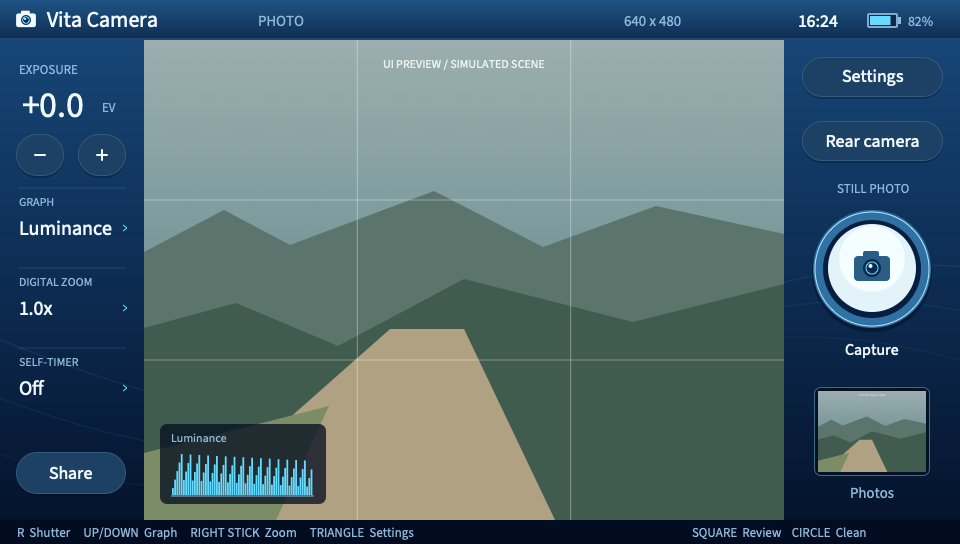
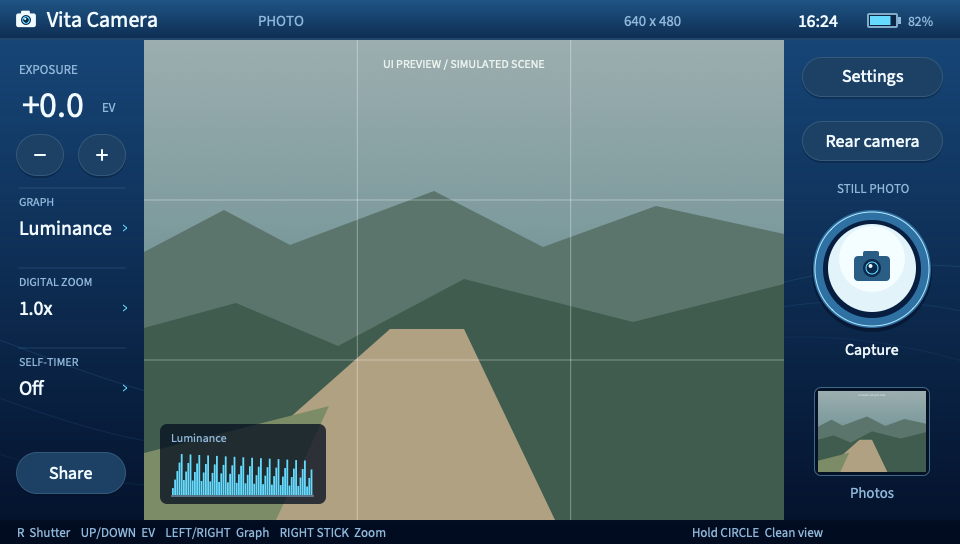
Remap camera controls and hold to hide the UI

Changed region(s): [[0.0625, 0.9688, 0.4375, 1.0], [0.7188, 0.9688, 0.9062, 1.0]]

diff --git a/src/main.cpp b/src/main.cpp
@@ -36,6 +36,8 @@ class App {
     uint32_t previousButtons = 0;
     uint64_t repeatAt = 0;
     bool wasTouching = false;
+    int cleanTouchId = -1;
+    CleanViewHold cleanHold;
     float touchStartX = 0, touchStartY = 0, touchLastX = 0, touchLastY = 0;
     bool settingsDirty = false;
     bool previousCompare = false;
@@ -83,7 +85,6 @@ class App {
             updateReview(false);
             return;
         }
-        ui.clean = !ui.clean; liveDirty = true;
     }
     void share() {
         if (writer.busy()) { toast("Wait for the photo to finish saving"); return; }
@@ -193,7 +194,7 @@ class App {
         case Action::NextPhoto: browse(1); break;
         case Action::Share: share(); break;
         case Action::Settings: timer.cancel(); ui.screen = Screen::Settings; ui.row = 0; break;
-        case Action::Back: case Action::Clean: back(); break;
+        case Action::Back: back(); break;
         case Action::Tab: ui.tab = hit.value; ui.row = 0; break;
         case Action::Row: ui.row = hit.value; adjustRow(hit.value,1); break;
         case Action::Zoom:
@@ -216,6 +217,8 @@ class App {
         if (pressed & arrows) repeatAt = time+350000;
         else if ((pad.buttons & arrows) && time >= repeatAt) { pressed |= pad.buttons & arrows; repeatAt = time+110000; }
         previousButtons = pad.buttons;
+        const Screen inputScreen = ui.screen;
+        const bool canStartClean = inputScreen == Screen::Camera && !timer.active();
         ui.compare = (pad.buttons & SCE_CTRL_SELECT) != 0;
         if (ui.compare != previousCompare) {
             liveDirty = true;
@@ -225,7 +228,7 @@ class App {
         if (ui.screen == Screen::Share) {
             if (pressed & SCE_CTRL_CIRCLE) back();
             else if ((pressed & SCE_CTRL_CROSS) && !ui.sharing) share();
-        } else if (pressed & SCE_CTRL_CIRCLE) buttonAction(Action::Back);
+        } else if ((pressed & SCE_CTRL_CIRCLE) && !canStartClean) buttonAction(Action::Back);
         else if (pressed & SCE_CTRL_START) buttonAction(Action::Help);
         else if (ui.screen == Screen::Settings) {
             if (pressed & SCE_CTRL_UP) ui.row = (ui.row+settingsRows(ui.tab)-1)%settingsRows(ui.tab);
@@ -247,11 +250,10 @@ class App {
             ui.panX = crop.x+crop.w/2; ui.panY = crop.y+crop.h/2;
         } else if (ui.screen == Screen::Camera) {
             if (pressed & (SCE_CTRL_RTRIGGER|SCE_CTRL_CROSS)) buttonAction(Action::Shutter);
-            if (pressed & SCE_CTRL_LTRIGGER) buttonAction(Action::SwitchCamera);
-            if (pressed & SCE_CTRL_LEFT) buttonAction(Action::EvDown);
-            if (pressed & SCE_CTRL_RIGHT) buttonAction(Action::EvUp);
-            if (pressed & SCE_CTRL_UP) buttonAction(Action::GraphPrevious);
-            if (pressed & SCE_CTRL_DOWN) buttonAction(Action::GraphNext);
+            if (pressed & SCE_CTRL_DOWN) buttonAction(Action::EvDown);
+            if (pressed & SCE_CTRL_UP) buttonAction(Action::EvUp);
+            if (pressed & SCE_CTRL_LEFT) buttonAction(Action::GraphPrevious);
+            if (pressed & SCE_CTRL_RIGHT) buttonAction(Action::GraphNext);
             if (!timer.active() && axis(pad.ry) != 0) { ui.zoom = std::clamp(ui.zoom-axis(pad.ry)*dt*1.5f,1.f,MaxZoom); liveDirty = true; }
             if (pressed & SCE_CTRL_SQUARE) buttonAction(Action::Review);
             if (pressed & SCE_CTRL_TRIANGLE) buttonAction(Action::Settings);
@@ -263,11 +265,23 @@ class App {
             const float x = (int(report.x)-touchPanel.minAaX)*960.f/(touchPanel.maxAaX-touchPanel.minAaX+1);
             const float y = (int(report.y)-touchPanel.minAaY)*544.f/(touchPanel.maxAaY-touchPanel.minAaY+1);
             touchLastX = x; touchLastY = y;
-            if (!wasTouching) { touchStartX = x; touchStartY = y; action(hitTest(hits,x,y)); }
+            if (!wasTouching) {
+                touchStartX = x; touchStartY = y;
+                if (ui.screen == inputScreen) {
+                    const auto hit = hitTest(hits,x,y);
+                    if (hit.action == Action::Clean && ui.screen == Screen::Camera) cleanTouchId = report.id;
+                    else action(hit);
+                }
+            }
         } else if (wasTouching && ui.screen == Screen::Review && Viewport.contains(touchStartX,touchStartY)) {
             const float dx = touchLastX-touchStartX, dy = touchLastY-touchStartY;
             if (std::abs(dx) > 60 && std::abs(dx) > std::abs(dy)) browse(dx > 0 ? -1 : 1);
         }
+        bool viewfinderHeld = false;
+        for (unsigned i = 0; i < touch.reportNum; ++i) if (touch.report[i].id == cleanTouchId) viewfinderHeld = true;
+        if (!viewfinderHeld || ui.screen != Screen::Camera) cleanTouchId = -1;
+        const bool clean = cleanHold.update(ui.screen,(pad.buttons&SCE_CTRL_CIRCLE) != 0,canStartClean,viewfinderHeld);
+        if (clean != ui.clean) { ui.clean = clean; liveDirty = true; nextAnalysis = 0; }
         wasTouching = touch.reportNum != 0;
     }
 public:
@@ -296,6 +310,7 @@ public:
                     sharing.stop(); ui.sharing = false; ui.qr = {}; ui.shareError = "Sharing paused. Select Retry to reconnect.";
                 } else openCamera();
                 previousButtons = 0;
+                cleanHold = {}; cleanTouchId = -1; wasTouching = false;
             }
             previousTime = time;
             input(time);

diff --git a/src/ui.cpp b/src/ui.cpp
@@ -7,6 +7,12 @@ static constexpr Color White = rgba(241, 250, 255);
 static constexpr Color Dim = rgba(145, 184, 218);
 static constexpr Color Cyan = rgba(101, 220, 255);
 static constexpr Color Glass = rgba(8, 30, 62, 225);
+bool CleanViewHold::update(Screen screen,bool circleDown,bool canStartCircle,bool viewfinderHeld) {
+    if (screen != Screen::Camera || !circleDown) circleActive_ = false;
+    else if (!previousCircle_ && canStartCircle) circleActive_ = true;
+    previousCircle_ = circleDown;
+    return screen == Screen::Camera && (circleActive_ || viewfinderHeld);
+}
 void Painter::centeredText(Rect r,float size,Color color,const std::string& value) {
     const auto bounds = textBounds(size,value);
     text(r.x+(r.w-bounds.width)/2-bounds.x,r.y+(r.h-bounds.height)/2-bounds.y,size,color,value);
@@ -132,7 +138,7 @@ std::vector<Hit> drawUi(Painter& p, const UiState& u) {
     } else {
         cameraIcon(p,view.x+view.w/2,223,1.7f,rgba(66,103,134));
         p.centeredText({view.x,264,view.w,32},23,White,review ? (u.photoCount ? "Photo unavailable" : "No photographs yet") : "Waiting for camera");
-        p.centeredText({view.x,301,view.w,28},17,Dim,review ? "Press Circle to return to the camera" : "Press L to switch or retry the camera");
+        p.centeredText({view.x,301,view.w,28},17,Dim,review ? "Press Circle to return to the camera" : "Tap Front / Rear camera to switch");
         if (!u.cameraError.empty() && !review) p.centeredText({view.x,341,view.w,28},17,rgba(255,189,143),u.cameraError);
     }
     if (!review && u.ready && u.screen == Screen::Camera) {
@@ -189,8 +195,8 @@ std::vector<Hit> drawUi(Painter& p, const UiState& u) {
             p.text(908,26,14,Dim,std::to_string(u.battery)+"%");
         }
         p.rect({0,520,960,24},rgba(1,10,29,180));
-        p.text(17,537,13,Dim,review ? "LEFT/RIGHT  Browse     RIGHT STICK  Zoom     LEFT STICK  Pan" : "R  Shutter     UP/DOWN  Graph     RIGHT STICK  Zoom     TRIANGLE  Settings");
-        p.text(692,537,13,Dim,review ? "SELECT  Original" : "SQUARE  Review    CIRCLE  Clean");
+        p.text(17,537,13,Dim,review ? "LEFT/RIGHT  Browse     RIGHT STICK  Zoom     LEFT STICK  Pan" : "R  Shutter    UP/DOWN  EV    LEFT/RIGHT  Graph    RIGHT STICK  Zoom");
+        p.text(692,537,13,Dim,review ? "SELECT  Original" : "Hold CIRCLE  Clean view");
         if (review) {
             p.text(19,78,13,Dim,std::to_string(u.photoIndex)+" / "+std::to_string(u.photoCount));
             p.text(19,108,22,White,zoomLabel(u.reviewZoom));
@@ -273,7 +279,7 @@ std::vector<Hit> drawUi(Painter& p, const UiState& u) {
         p.rect({0,40,960,480},rgba(0,9,25,200));
         p.round({176,58,608,431},17,rgba(15,47,82));
         p.text(204,100,28,White,"Controls");
-        const char* controls[][2] = {{"R / Cross", "Take a photograph"},{"Left / Right", "Exposure compensation"},{"Up / Down", "Previous / next graph"},{"Right stick", "Digital zoom"},{"Square / Triangle", "Photos / settings"},{"Circle", "Clean view / back / cancel timer"},{"Hold Select", "Compare with original"},{"L", "Switch camera"}};
+        const char* controls[][2] = {{"R / Cross", "Take a photograph"},{"Up / Down", "Increase / decrease exposure"},{"Left / Right", "Previous / next graph"},{"Right stick", "Digital zoom"},{"Square / Triangle", "Photos / settings"},{"Circle", "Hold for clean view; back / cancel"},{"Hold Select", "Compare with original"},{"Front / Rear button", "Switch camera (touch)"}};
         for (int i = 0; i < 8; ++i) {
             p.text(208,147+i*33,17,Cyan,controls[i][0]);
             p.text(414,147+i*33,17,White,controls[i][1]);

diff --git a/tests/core_tests.cpp b/tests/core_tests.cpp
@@ -32,6 +32,34 @@ int main() {
     assert(timer.due(2001000) && timer.remaining(2001001) == 0);
     timer.cancel(); assert(!timer.due(999999999));
 
+    CleanViewHold clean;
+    assert(clean.update(Screen::Camera,true,true,false));
+    assert(clean.update(Screen::Camera,true,true,false));
+    assert(!clean.update(Screen::Camera,false,true,false));
+    assert(clean.update(Screen::Camera,false,true,true));
+    assert(!clean.update(Screen::Camera,false,true,false));
+    assert(clean.update(Screen::Camera,true,true,true));
+    assert(clean.update(Screen::Camera,false,true,true));
+    assert(!clean.update(Screen::Camera,false,true,false));
+    // A timer-cancel press stays consumed until Circle is released.
+    assert(!clean.update(Screen::Camera,true,false,false));
+    assert(!clean.update(Screen::Camera,true,true,false));
+    assert(!clean.update(Screen::Camera,false,true,false));
+    assert(clean.update(Screen::Camera,true,true,false));
+    // Leaving and returning to the camera while held cannot re-arm clean view.
+    assert(!clean.update(Screen::Settings,true,false,false));
+    assert(!clean.update(Screen::Camera,true,false,false));
+    assert(!clean.update(Screen::Camera,true,true,false));
+    assert(!clean.update(Screen::Camera,false,true,false));
+    assert(!clean.update(Screen::Share,false,false,true));
+    assert(!clean.update(Screen::Review,true,false,false));
+    assert(!clean.update(Screen::Camera,true,false,false));
+    assert(!clean.update(Screen::Camera,true,true,false));
+    assert(!clean.update(Screen::Camera,false,true,false));
+    assert(clean.update(Screen::Camera,true,true,true));
+    assert(clean.update(Screen::Camera,true,true,false));
+    assert(!clean.update(Screen::Camera,false,true,false));
+
     Capture capture;
     capture.settings = settings;
     capture.stem = "test-shot";

diff --git a/include/ui.hpp b/include/ui.hpp
@@ -13,6 +13,13 @@ struct Rect {
 enum class Action { None, Shutter, EvDown, EvUp, Wb, Look, GraphNext, GraphPrevious, Timer, SwitchCamera, Review, PreviousPhoto, NextPhoto, Share, Settings, Clean, Back, Tab, Row, Zoom, Help };
 struct Hit { Rect rect; Action action; int value = 0; };
 enum class Screen { Camera, Settings, Review, Help, Share };
+class CleanViewHold {
+public:
+    bool update(Screen screen, bool circleDown, bool canStartCircle, bool viewfinderHeld);
+private:
+    bool previousCircle_ = false;
+    bool circleActive_ = false;
+};
 struct UiState {
     Settings settings;
     Screen screen = Screen::Camera;

diff --git a/include/core.hpp b/include/core.hpp
@@ -8,7 +8,7 @@
 namespace cam {
 constexpr int Width = 640;
 constexpr int Height = 480;
-constexpr const char* Version = "0.1.6";
+constexpr const char* Version = "0.1.7";
 constexpr std::array<int, 17> EvSteps{-20, -17, -15, -13, -10, -7, -5, -3, 0, 3, 5, 7, 10, 13, 15, 17, 20};
 constexpr std::array<int, 4> WhiteBalances{0, 1, 2, 4};
 constexpr std::array<int, 4> IsoModes{1, 100, 200, 400};

diff --git a/docs/device-testing.md b/docs/device-testing.md
@@ -12,9 +12,10 @@
 | Build and regression checks | Native VitaSDK ARM build and pthread link check pass. All seven host suites pass. |
 | 01.04 performance | User confirmed smooth preview. Device log median: 29.9 fps with both warnings and graphs off; 28.3 fps with highlights and Waveform. Details in [performance.md](performance.md). |
 | 01.05 UI polish | Shared WebKit previews check continuous button rims, vector signs/chevrons, balanced thumbnail padding, centered empty states and hotspot instructions. Native appearance awaits confirmation. |
-| 01.06 ISO label | Native build, package integrity and generated Settings label verified. Installation pending USB sharing. |
+| 01.06 ISO label | Native build, package integrity and generated Settings label verified. Included in 01.07. |
+| 01.07 controls | Up/Down adjusts EV; Left/Right cycles graphs; touch switches cameras; clean view is held. Host checks cover release, combined holds, timer cancellation and menu transitions. Device check pending. |
 
-Build environment: macOS ARM64, VitaSDK 2026.08, GCC 15.2. Title ID: `VITACAM01`; current package: `01.06` (app `0.1.6`). The settings label is now simply **ISO**; camera behavior and metadata are unchanged.
+Build environment: macOS ARM64, VitaSDK 2026.08, GCC 15.2. Title ID: `VITACAM01`; current package: `01.07` (app `0.1.7`). The settings label is simply **ISO**; ISO behavior and metadata format are unchanged.
 
 The 01.04 profiling build was copied to the connected SD2Vita and verified against the VPK, then the volume was safely ejected. The matching ELF/package are in `build/device-builds/01.04-profile/`; 01.03 rollback files are in `build/device-backup/01.03/`.
 
@@ -25,11 +26,12 @@ The 01.05 release build (profiling disabled) is installed and verified against t
 1. Launch and pan the camera with warnings Off, Highlights, Shadows and both. Compare responsiveness in the same scene, including bright and dark areas. Repeat with Waveform and a color look enabled.
 2. Check button labels, exposure signs, settings tabs, shutter and gallery controls at 960 × 544. Capture camera and Settings with **PS + START**.
 3. Take a photo with R. After **Photo saved**, browse older photos using Left/Right and swipe. Zoom with the right stick; pan with the left stick; hold Select to compare the original.
-4. Switch cameras. Check preview and exported orientation; saved selfies remain unmirrored.
+4. Switch cameras using the Front/Rear touch button. Confirm L does nothing while shooting. Check preview and exported orientation; saved selfies remain unmirrored.
 5. Cycle EV, WB, ISO and anti-flicker. Unsupported modes should be skipped without repeated popups.
 6. Capture with a color look and digital zoom. Check the full-frame original, edited/zoomed PNG and JSON; guides and warnings must be absent from saved images.
 7. Try both timers, cancel, reopen the app and suspend/resume. Confirm preferences persist and the camera recovers.
 8. Share to iPhone, save a photograph, then exit Share during another transfer. Test Wi-Fi loss and Retry with a fresh session link.
+9. Confirm Up/Down changes EV and Left/Right changes graphs. Hold and release Circle and the viewfinder, separately and together. Controls must return once both are released. Returning from menus and cancelling a timer with Circle must not also hide the UI.
 
 For timing logs, use the [profiling build](performance.md#vita-timings). Leave each warning combination on the camera screen for at least ten seconds before changing settings.
 

diff --git a/README.md b/README.md
@@ -30,7 +30,7 @@ ISO offers Auto, 100, 200 and 400. Saved metadata records the selected mode, not
 | RGB | Separate red, green and blue distributions. A channel crowded against the right edge can indicate lost color detail. |
 | Waveform | Image position from left to right, brightness from bottom to top. Brighter marks mean more pixels at that position and brightness. |
 
-Graphs follow the current color look and zoomed framing, before warning overlays. They refresh at 10 Hz; Up/Down cycles through them and Off. Histogram heights are normalized within each graph.
+Graphs follow the current color look and zoomed framing, before warning overlays. They refresh at 10 Hz; Left/Right cycles through them and Off. Histogram heights are normalized within each graph.
 
 **Highlight zebras** mark pixels with any channel at 250/255 or above. **Shadow warnings** mark luma at 5/255 or below. They help locate possible clipping; they do not recover detail. Both are preview only.
 
@@ -39,13 +39,14 @@ Graphs follow the current color look and zoomed framing, before warning overlays
 | Control | Action |
 | --- | --- |
 | R / Cross | Shutter; cancel timer; retry failed save |
-| Left / Right | EV |
-| Up / Down | Previous / next graph |
+| Up / Down | Increase / decrease EV |
+| Left / Right | Previous / next graph |
 | Right stick Up / Down | Zoom in / out (1–4×) |
-| L | Switch camera |
+| Front / Rear camera button | Switch camera (touch) |
 | Square | Photo browser |
 | Triangle | Settings |
-| Circle | Clean view / back / cancel timer |
+| Hold Circle | Clean view while held |
+| Circle in menus / during timer | Back / cancel timer |
 | Hold Select | Compare original |
 | Start | Controls |
 | Settings: Up / Down | Select row |
@@ -55,7 +56,7 @@ Graphs follow the current color look and zoomed framing, before warning overlays
 | Review: Left / Right or swipe | Previous / next photo |
 | Review: left stick | Pan when zoomed |
 
-Touch the controls directly; tap the viewfinder for clean view. Wait for **Photo saved** before closing the app. If saving fails, keep the app open and press Capture to retry the retained frame.
+Touch the controls directly; hold the viewfinder for clean view and release to restore the UI. L has no action while shooting; L/R still switch Settings tabs. A Circle press used to go back or cancel a timer does not also hide the UI. Wait for **Photo saved** before closing the app. If saving fails, keep the app open and press Capture to retry the retained frame.
 
 ## Share to iPhone
 

diff --git a/docs/architecture.md b/docs/architecture.md
@@ -8,6 +8,8 @@ Setting cycles skip values rejected with parameter/range errors, bounded by the 
 
 `main.cpp` handles controller/touch input, timer, photo browsing and camera recovery after resume or repeated read failure. Capture waits for a fresh frame and a short settling interval after camera changes. That interval is a usability precaution, not a measured exposure lock or a calibrated bracketing delay.
 
+While shooting, Up/Down changes EV and Left/Right selects the graph. Camera switching is touch-only to avoid accidental shoulder presses. Clean view lasts while Circle or a viewfinder touch is held. `CleanViewHold` consumes Circle presses used for Back or timer cancellation until release; touch holds track the initiating contact. Leaving the camera clears the hold state. Settings and gallery navigation retain their own mappings.
+
 `capture_writer.cpp` owns an immutable frame copy and encodes on a separate thread. One outstanding capture bounds memory use. A failed job stays in memory for explicit retry; closing the process loses that retained copy. PNGs are written to `.part` files, closed, then renamed. Existing capture names are rejected. If a partial export already saved an original, retry uses a new suffix and preserves it. Host tests run the same worker and exercise ownership, retry and shutdown.
 
 The Vita link retains the complete pthread archive: libstdc++ references some thread functions weakly, so ordinary static linking can omit them while still producing a VPK. `scripts/check-vita-link.cmake` checks the linked ARM executable before packaging.
